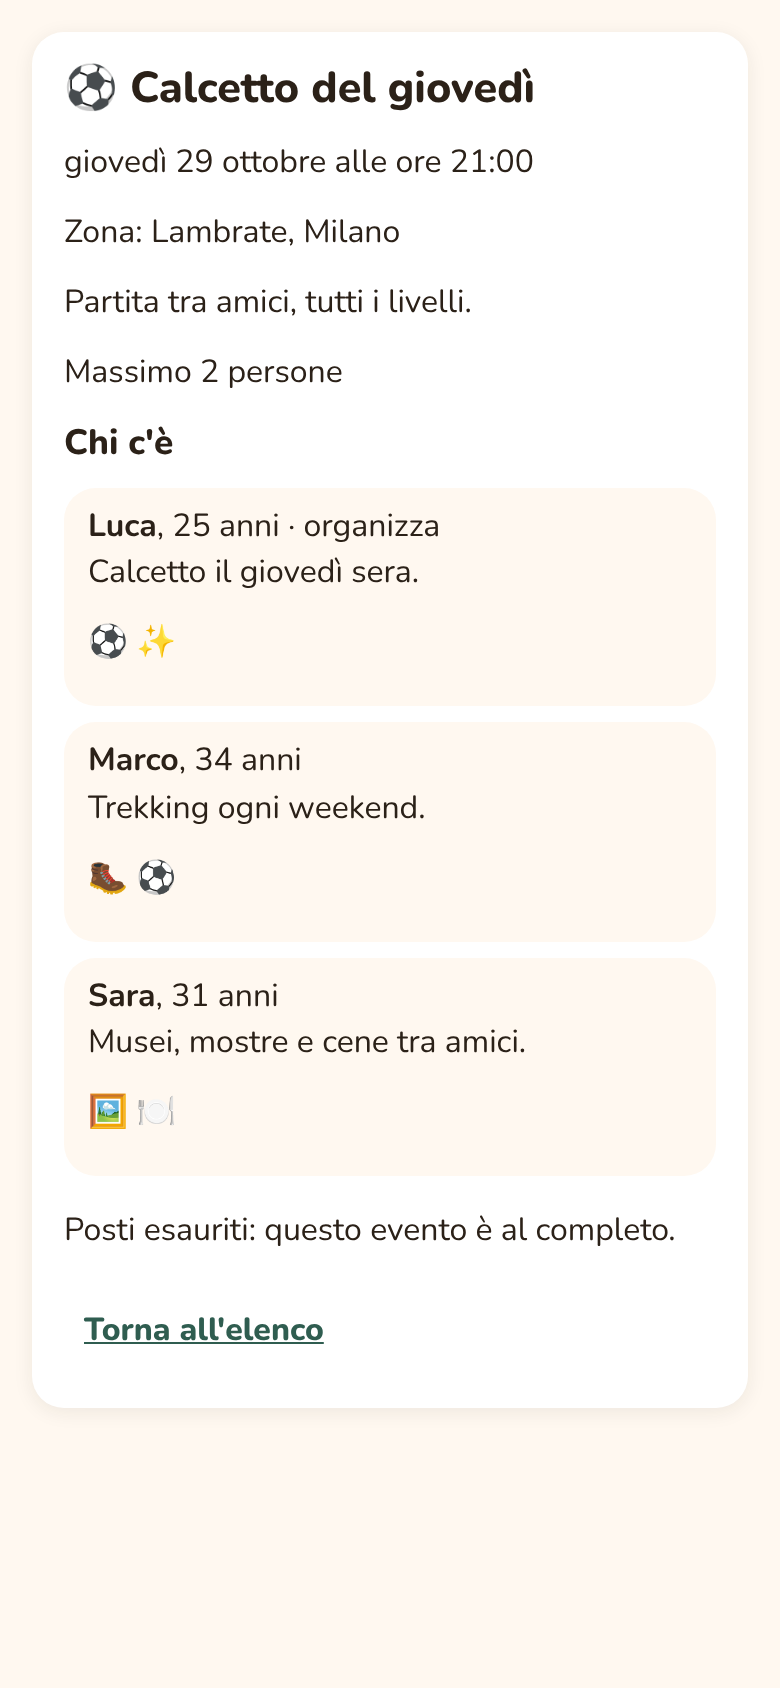
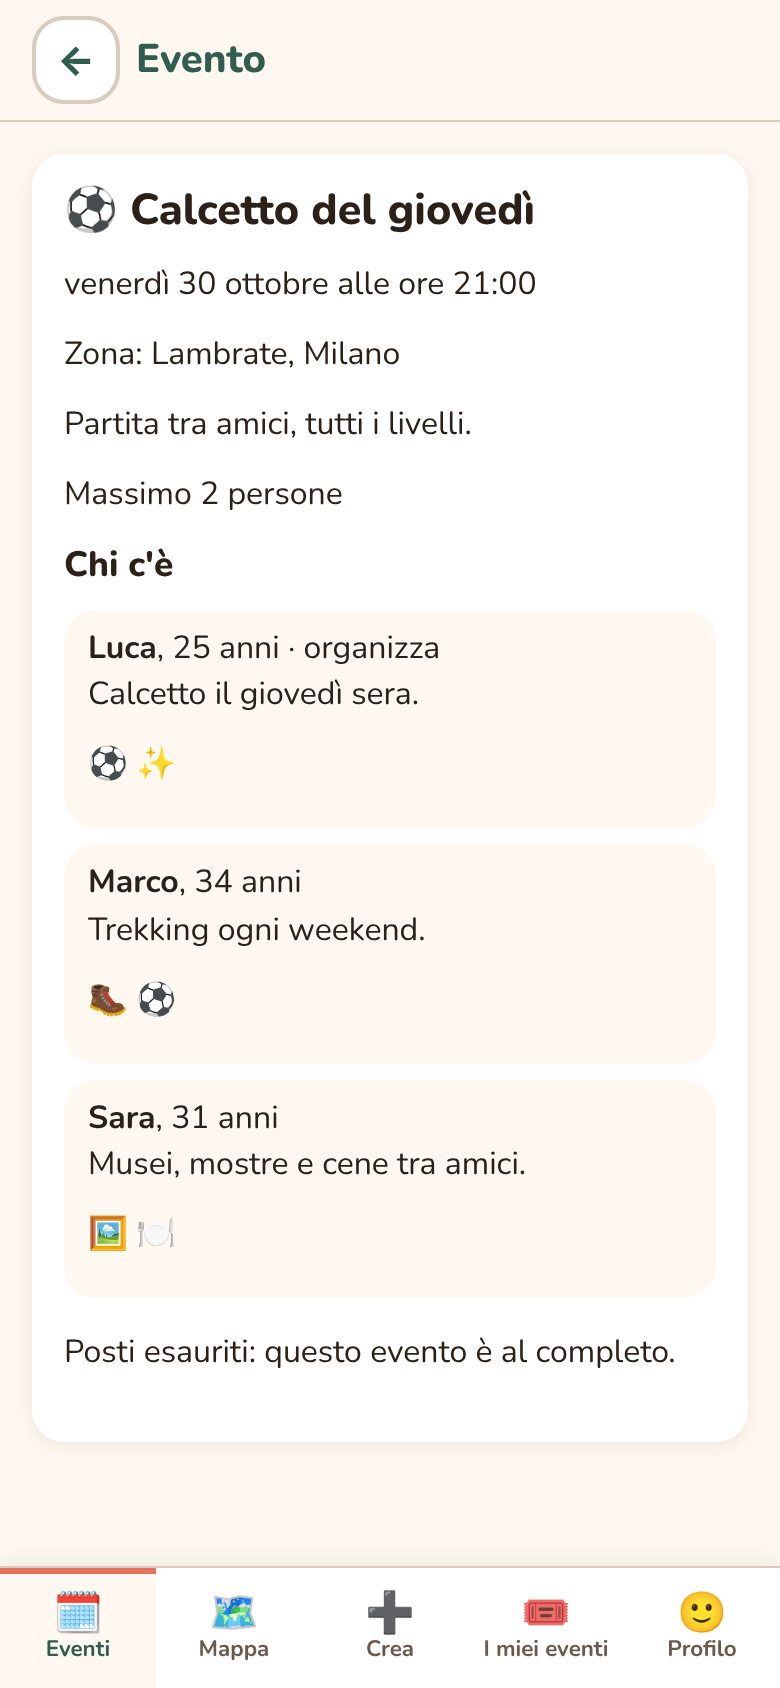
Task 22: navigazione a schede con intestazione e barra in basso
Claude-Session: https://claude.ai/code/session_01GAuTjTUMprXCjsRRC2g3Aa

diff --git a/src/screens/ProfileGate.tsx b/src/screens/ProfileGate.tsx
@@ -1,57 +1,14 @@
-import { useState } from 'react'
 import { useServices } from '../app/ServicesContext'
+import { AppShell } from '../nav/AppShell'
 import { useProfile } from '../profile/useProfile'
-import { DebugScreen } from './DebugScreen'
-import { CreateEventScreen } from './CreateEventScreen'
-import { EventDetailScreen } from './EventDetailScreen'
-import { EventListScreen } from './EventListScreen'
-import { HomeScreen } from './HomeScreen'
-import { MapScreen } from './MapScreen'
-import { MyEventsScreen } from './MyEventsScreen'
 import { ProfileScreen } from './ProfileScreen'
 
-// Chi è collegato ma non ha ancora il profilo deve prima completarlo.
+// Chi è collegato ma non ha ancora il profilo deve prima completarlo; poi entra nell'app a schede.
 export function ProfileGate({ uid }: { uid: string }) {
   const { users } = useServices()
   const { loading, profile, setProfile } = useProfile(users, uid)
-  const [editing, setEditing] = useState(false)
-  const [creating, setCreating] = useState(false)
-  const [browsing, setBrowsing] = useState(false)
-  const [mapping, setMapping] = useState(false)
-  const [mine, setMine] = useState(false)
-  const [debug, setDebug] = useState(false)
-  const [openId, setOpenId] = useState<string | null>(null)
 
   if (loading) return <p className="card loading">Caricamento…</p>
-  if (!profile || editing) {
-    return (
-      <ProfileScreen
-        uid={uid}
-        current={profile}
-        onSaved={(saved) => {
-          setProfile(saved)
-          setEditing(false)
-        }}
-      />
-    )
-  }
-  if (debug) return <DebugScreen onBack={() => setDebug(false)} />
-  if (creating) {
-    return <CreateEventScreen uid={uid} onDone={() => setCreating(false)} onCancel={() => setCreating(false)} />
-  }
-  if ((browsing || mapping || mine) && openId) return <EventDetailScreen eventId={openId} onBack={() => setOpenId(null)} />
-  if (mine) return <MyEventsScreen uid={uid} onOpen={setOpenId} onBack={() => setMine(false)} />
-  if (mapping) return <MapScreen onOpen={setOpenId} onBack={() => setMapping(false)} />
-  if (browsing) return <EventListScreen onOpen={setOpenId} onBack={() => setBrowsing(false)} />
-  return (
-    <HomeScreen
-      profile={profile}
-      onEdit={() => setEditing(true)}
-      onCreateEvent={() => setCreating(true)}
-      onBrowse={() => setBrowsing(true)}
-      onMap={() => setMapping(true)}
-      onMine={() => setMine(true)}
-      onDebug={() => setDebug(true)}
-    />
-  )
+  if (!profile) return <ProfileScreen uid={uid} current={null} onSaved={setProfile} />
+  return <AppShell uid={uid} profile={profile} onProfileSaved={setProfile} />
 }

diff --git a/scripts/shots/steps.ts b/scripts/shots/steps.ts
@@ -16,21 +16,21 @@ async function fromHome(page: Page, ...clicks: (string | RegExp)[]) {
 }
 
 export const STEPS: Step[] = [
-  { name: '01-home', go: (p) => fromHome(p) },
-  { name: '02-eventi', go: (p) => fromHome(p, 'Eventi') },
-  { name: '03-dettaglio-libero', go: (p) => fromHome(p, 'Eventi', /Aperitivo sul Naviglio/) },
-  { name: '04-dettaglio-approvazione', go: (p) => fromHome(p, 'Eventi', /pasta fatta/) },
-  { name: '05-dettaglio-pieno', go: (p) => fromHome(p, 'Eventi', /Calcetto/) },
+  { name: '02-eventi', go: (p) => fromHome(p) },
+  { name: '03-dettaglio-libero', go: (p) => fromHome(p, /Aperitivo sul Naviglio/) },
+  { name: '04-dettaglio-approvazione', go: (p) => fromHome(p, /pasta fatta/) },
+  { name: '05-dettaglio-pieno', go: (p) => fromHome(p, /Calcetto/) },
   { name: '06-dettaglio-annullato', go: (p) => fromHome(p, 'I miei eventi', /annullata/) },
   { name: '07-dettaglio-organizzatore', go: (p) => fromHome(p, 'I miei eventi', /Passeggiata/) },
-  { name: '15-dopo-partecipa', go: async (p) => { await fromHome(p, 'Eventi', /Aperitivo sul Naviglio/, 'Partecipa'); await p.getByText(/confermata/).waitFor() } },
-  { name: '16-richiesta-inviata', go: async (p) => { await fromHome(p, 'Eventi', /pasta fatta/, 'Chiedi di partecipare'); await p.getByText(/Richiesta inviata/).waitFor() } },
+  { name: '15-dopo-partecipa', go: async (p) => { await fromHome(p, /Aperitivo sul Naviglio/, 'Partecipa'); await p.getByText(/confermata/).waitFor() } },
+  { name: '16-richiesta-inviata', go: async (p) => { await fromHome(p, /pasta fatta/, 'Chiedi di partecipare'); await p.getByText(/Richiesta inviata/).waitFor() } },
   { name: '17-organizzatore-richieste', go: (p) => fromHome(p, 'I miei eventi', /Brunch/) },
   { name: '08-miei-eventi', go: (p) => fromHome(p, 'I miei eventi') },
   { name: '09-mappa', go: (p) => fromHome(p, 'Mappa') },
-  { name: '10-crea-evento', go: (p) => fromHome(p, 'Crea evento') },
-  { name: '11-profilo', go: (p) => fromHome(p, 'Modifica profilo') },
-  { name: '12-debug', go: (p) => fromHome(p, 'Debug') },
-  { name: '13-accesso', go: (p) => fromHome(p, 'Esci') },
-  { name: '14-registrazione', go: (p) => fromHome(p, 'Esci', 'Registrati') },
+  { name: '10-crea-evento', go: (p) => fromHome(p, 'Crea') },
+  { name: '18-profilo-scheda', go: (p) => fromHome(p, 'Profilo') },
+  { name: '11-profilo', go: (p) => fromHome(p, 'Profilo', 'Modifica profilo') },
+  { name: '12-debug', go: (p) => fromHome(p, 'Profilo', 'Debug') },
+  { name: '13-accesso', go: (p) => fromHome(p, 'Profilo', 'Esci') },
+  { name: '14-registrazione', go: (p) => fromHome(p, 'Profilo', 'Esci', 'Registrati') },
 ]

diff --git a/src/nav/AppShell.tsx b/src/nav/AppShell.tsx
@@ -1,0 +1,48 @@
+import { useState, type ReactNode } from 'react'
+import type { UserProfile } from '../domain/user'
+import { CreateEventScreen } from '../screens/CreateEventScreen'
+import { DebugScreen } from '../screens/DebugScreen'
+import { EventDetailScreen } from '../screens/EventDetailScreen'
+import { EventListScreen } from '../screens/EventListScreen'
+import { MapScreen } from '../screens/MapScreen'
+import { MyEventsScreen } from '../screens/MyEventsScreen'
+import { ProfileScreen } from '../screens/ProfileScreen'
+import { ProfileView } from '../screens/ProfileView'
+import { AppHeader } from './AppHeader'
+import { canGoBack, goBack, openDebug, openEdit, openEvent, selectTab, START, titleOf, type Nav } from './navState'
+import { TabBar } from './TabBar'
+
+interface Props {
+  uid: string
+  profile: UserProfile
+  onProfileSaved: (profile: UserProfile) => void
+}
+
+// Guscio dell'app per chi è collegato: intestazione, contenuto della scheda attiva e barra in basso.
+export function AppShell({ uid, profile, onProfileSaved }: Props) {
+  const [nav, setNav] = useState<Nav>(START)
+  const open = (id: string) => setNav((n) => openEvent(n, id))
+
+  function content(): ReactNode {
+    switch (nav.overlay.kind) {
+      case 'event': return <EventDetailScreen eventId={nav.overlay.id} />
+      case 'debug': return <DebugScreen />
+      case 'edit': return <ProfileScreen uid={uid} current={profile} onSaved={(saved) => { onProfileSaved(saved); setNav((n) => goBack(n)) }} />
+    }
+    switch (nav.tab) {
+      case 'eventi': return <EventListScreen onOpen={open} />
+      case 'mappa': return <MapScreen onOpen={open} />
+      case 'crea': return <CreateEventScreen uid={uid} onDone={() => setNav(selectTab('miei'))} />
+      case 'miei': return <MyEventsScreen uid={uid} onOpen={open} />
+      case 'profilo': return <ProfileView profile={profile} onEdit={() => setNav((n) => openEdit(n))} onDebug={() => setNav((n) => openDebug(n))} />
+    }
+  }
+
+  return (
+    <div className="shell">
+      <AppHeader title={titleOf(nav)} onBack={canGoBack(nav) ? () => setNav((n) => goBack(n)) : null} />
+      <main className="shell-content">{content()}</main>
+      <TabBar active={nav.tab} onSelect={(tab) => setNav(selectTab(tab))} />
+    </div>
+  )
+}

diff --git a/src/styles/nav.css b/src/styles/nav.css
@@ -1,0 +1,25 @@
+/* Guscio dell'app: intestazione in alto, contenuto che scorre, barra a schede in basso. */
+.shell { display: flex; flex-direction: column; min-height: 100dvh; }
+.shell-content { flex: 1; padding-bottom: calc(72px + env(safe-area-inset-bottom)); }
+.appbar {
+  position: sticky; top: 0; z-index: 10; display: flex; align-items: center; gap: var(--space-2);
+  padding: var(--space-2) var(--space-4); background: var(--color-background);
+  border-bottom: 1px solid var(--color-border);
+}
+.appbar-title { margin: 0; font-size: 1.25rem; }
+.appbar .back, .back-space { width: var(--tap); min-width: var(--tap); height: var(--tap); }
+.appbar .back { padding: 0; background: var(--color-surface); color: var(--color-secondary); border-color: var(--color-border); font-size: 1.25rem; }
+.tabbar {
+  position: fixed; left: 0; right: 0; bottom: 0; z-index: 10; display: grid; grid-template-columns: repeat(5, 1fr);
+  background: var(--color-surface); border-top: 1px solid var(--color-border); box-shadow: 0 -2px 10px rgba(43, 33, 24, 0.08);
+  padding-bottom: env(safe-area-inset-bottom);
+}
+.tab {
+  display: flex; flex-direction: column; align-items: center; justify-content: center; gap: 2px;
+  min-height: 60px; padding: var(--space-1); border: 0; border-radius: 0; background: none; color: var(--color-muted);
+  font-weight: 700;
+}
+.tab-icon { font-size: 1.25rem; line-height: 1; }
+.tab-label { font-size: 0.7rem; line-height: 1.1; text-align: center; }
+.tab[aria-current='page'] { color: var(--color-secondary); background: var(--color-background); box-shadow: inset 0 3px 0 var(--color-primary); }
+.stack-actions { display: flex; gap: var(--space-4); margin-top: var(--space-3); }

diff --git a/src/nav/navState.ts b/src/nav/navState.ts
@@ -1,0 +1,45 @@
+// Stato della navigazione: una scheda attiva e, sopra, al massimo una schermata aperta (dettaglio, debug, modifica profilo).
+// Sono funzioni pure: non toccano React, quindi si provano con test semplici.
+
+export type Tab = 'eventi' | 'mappa' | 'crea' | 'miei' | 'profilo'
+
+export type Overlay =
+  | { kind: 'none' }
+  | { kind: 'event'; id: string }
+  | { kind: 'debug' }
+  | { kind: 'edit' }
+
+export interface Nav {
+  tab: Tab
+  overlay: Overlay
+}
+
+export const START: Nav = { tab: 'eventi', overlay: { kind: 'none' } }
+
+export const TAB_LABEL: Record<Tab, string> = {
+  eventi: 'Eventi',
+  mappa: 'Mappa',
+  crea: 'Crea',
+  miei: 'I miei eventi',
+  profilo: 'Profilo',
+}
+
+// Toccare una scheda chiude sempre la schermata aperta sopra.
+export const selectTab = (tab: Tab): Nav => ({ tab, overlay: { kind: 'none' } })
+
+export const openEvent = (nav: Nav, id: string): Nav => ({ ...nav, overlay: { kind: 'event', id } })
+export const openDebug = (nav: Nav): Nav => ({ ...nav, overlay: { kind: 'debug' } })
+export const openEdit = (nav: Nav): Nav => ({ ...nav, overlay: { kind: 'edit' } })
+export const goBack = (nav: Nav): Nav => ({ ...nav, overlay: { kind: 'none' } })
+
+export const canGoBack = (nav: Nav): boolean => nav.overlay.kind !== 'none'
+
+// Titolo mostrato nell'intestazione.
+export function titleOf(nav: Nav): string {
+  switch (nav.overlay.kind) {
+    case 'event': return 'Evento'
+    case 'debug': return 'Debug'
+    case 'edit': return 'Modifica profilo'
+    default: return nav.tab === 'eventi' ? 'Eventi in programma' : nav.tab === 'crea' ? 'Crea un evento' : TAB_LABEL[nav.tab]
+  }
+}

diff --git a/src/screens/MyEventsScreen.tsx b/src/screens/MyEventsScreen.tsx
@@ -9,7 +9,7 @@ import { withdrawFromEvent } from '../participation/withdrawFromEvent'
 const STATO_LABEL = { richiesta: 'In attesa di risposta', confermato: 'Confermato', rifiutato: 'Rifiutato' } as const
 
 // "I miei eventi" (che organizzo) e "Le mie iscrizioni", con annullamento e ritiro.
-export function MyEventsScreen({ uid, onOpen, onBack }: { uid: string; onOpen: (eventId: string) => void; onBack: () => void }) {
+export function MyEventsScreen({ uid, onOpen }: { uid: string; onOpen: (eventId: string) => void }) {
   const services = useServices()
   const { loading, failed, mine, reload } = useMine(services, uid)
   const [error, setError] = useState('')
@@ -27,7 +27,7 @@ export function MyEventsScreen({ uid, onOpen, onBack }: { uid: string; onOpen: (
 
   return (
     <section className="card">
-      <h2>I miei eventi</h2>
+      <h2>Che organizzo</h2>
       {loading && <p className="loading">Caricamento…</p>}
       {failed && <p role="alert" className="error">Non riesco a caricare i tuoi eventi.</p>}
       {error && <p role="alert" className="error">{error}</p>}
@@ -64,7 +64,6 @@ export function MyEventsScreen({ uid, onOpen, onBack }: { uid: string; onOpen: (
           </li>
         ))}
       </ul>
-      <button type="button" className="link" onClick={onBack}>Indietro</button>
     </section>
   )
 }

diff --git a/src/screens/CreateEventScreen.tsx b/src/screens/CreateEventScreen.tsx
@@ -20,11 +20,10 @@ const EMPTY: EventInput = {
 interface Props {
   uid: string
   onDone: () => void
-  onCancel: () => void
 }
 
 // Form per creare un evento. La mappa per scegliere il punto arriverà col task 9: per ora le coordinate si scrivono.
-export function CreateEventScreen({ uid, onDone, onCancel }: Props) {
+export function CreateEventScreen({ uid, onDone }: Props) {
   const { events } = useServices()
   const [input, setInput] = useState<EventInput>(EMPTY)
   const [error, setError] = useState<string | null>(null)
@@ -47,7 +46,6 @@ export function CreateEventScreen({ uid, onDone, onCancel }: Props) {
 
   return (
     <form className="card" onSubmit={handleSubmit} noValidate>
-      <h2>Crea un evento</h2>
       <label>
         Tipo
         <select value={input.tipo} onChange={(e) => set({ tipo: e.target.value })}>
@@ -97,8 +95,7 @@ export function CreateEventScreen({ uid, onDone, onCancel }: Props) {
         Le richieste vanno approvate da me
       </label>
       {error && <p role="alert" className="error">{error}</p>}
-      <button type="submit" disabled={busy}>Crea evento</button>{' '}
-      <button type="button" className="link" onClick={onCancel}>Annulla</button>
+      <button type="submit" disabled={busy}>Crea evento</button>
     </form>
   )
 }

diff --git a/src/nav/navState.test.ts b/src/nav/navState.test.ts
@@ -1,0 +1,27 @@
+import { canGoBack, goBack, openDebug, openEdit, openEvent, selectTab, START, titleOf } from './navState'
+
+describe('navState', () => {
+  it('parte dalla scheda Eventi, senza schermate aperte', () => {
+    expect(START.tab).toBe('eventi')
+    expect(canGoBack(START)).toBe(false)
+  })
+  it('aprire un evento permette di tornare indietro alla stessa scheda', () => {
+    const nav = openEvent(selectTab('mappa'), 'e1')
+    expect(canGoBack(nav)).toBe(true)
+    expect(nav.overlay).toEqual({ kind: 'event', id: 'e1' })
+    expect(goBack(nav)).toEqual(selectTab('mappa'))
+  })
+  it('cambiare scheda chiude la schermata aperta', () => {
+    expect(selectTab('profilo').overlay.kind).toBe('none')
+  })
+  it('debug e modifica profilo sono schermate sopra il profilo', () => {
+    const base = selectTab('profilo')
+    expect(titleOf(openDebug(base))).toBe('Debug')
+    expect(titleOf(openEdit(base))).toBe('Modifica profilo')
+  })
+  it('il titolo segue la scheda o la schermata aperta', () => {
+    expect(titleOf(START)).toBe('Eventi in programma')
+    expect(titleOf(selectTab('miei'))).toBe('I miei eventi')
+    expect(titleOf(openEvent(START, 'x'))).toBe('Evento')
+  })
+})

diff --git a/src/screens/EventListScreen.tsx b/src/screens/EventListScreen.tsx
@@ -9,11 +9,10 @@ import { FiltersBar } from './FiltersBar'
 
 interface Props {
   onOpen: (eventId: string) => void
-  onBack: () => void
 }
 
 // Elenco degli eventi futuri, dal più vicino. Toccando una scheda si apre il dettaglio.
-export function EventListScreen({ onOpen, onBack }: Props) {
+export function EventListScreen({ onOpen }: Props) {
   const { events } = useServices()
   const { loading, list, failed } = useUpcomingEvents(events)
   const [filters, setFilters] = useState<EventFilters>(NO_FILTERS)
@@ -22,7 +21,6 @@ export function EventListScreen({ onOpen, onBack }: Props) {
 
   return (
     <section className="card">
-      <h2>Eventi in programma</h2>
       <FiltersBar filters={filters} onChange={setFilters} position={position} onAskPosition={ask} />
       {loading && <p className="loading">Caricamento…</p>}
       {failed && <p role="alert" className="error">Non riesco a caricare gli eventi.</p>}
@@ -38,7 +36,6 @@ export function EventListScreen({ onOpen, onBack }: Props) {
           </li>
         ))}
       </ul>
-      <button type="button" className="link" onClick={onBack}>Indietro</button>
     </section>
   )
 }

diff --git a/src/screens/DebugScreen.tsx b/src/screens/DebugScreen.tsx
@@ -11,18 +11,16 @@ const STATUS_LABEL = {
 } as const
 
 // Schermata per sviluppatori: mostra lo stato delle notifiche e il token da copiare in Firebase.
-export function DebugScreen({ onBack }: { onBack: () => void }) {
+export function DebugScreen() {
   const { push } = useServices()
   const { state, enable } = usePush(push)
   return (
     <section className="card">
-      <h2>Debug</h2>
       <p>Notifiche: {STATUS_LABEL[state.status]}</p>
       {state.error && <p role="alert">{state.error}</p>}
       {state.token && <p>Token: <code style={{ wordBreak: 'break-all' }}>{state.token}</code></p>}
       {state.last && <p>Ultima notifica: {state.last.title} – {state.last.body}</p>}
-      <button type="button" onClick={() => void enable()} disabled={state.status === 'unsupported'}>Attiva notifiche</button>{' '}
-      <button type="button" className="link" onClick={onBack}>Indietro</button>
+      <button type="button" onClick={() => void enable()} disabled={state.status === 'unsupported'}>Attiva notifiche</button>
     </section>
   )
 }

diff --git a/src/screens/ProfileView.tsx b/src/screens/ProfileView.tsx
@@ -1,0 +1,26 @@
+import { useServices } from '../app/ServicesContext'
+import type { UserProfile } from '../domain/user'
+import { calculateAge } from '../profile/age'
+
+interface Props {
+  profile: UserProfile
+  onEdit: () => void
+  onDebug: () => void
+}
+
+// Scheda "Profilo": i dati propri (età, mai la data di nascita) con Modifica, Debug ed Esci.
+export function ProfileView({ profile, onEdit, onDebug }: Props) {
+  const { auth } = useServices()
+  return (
+    <section className="card">
+      <h2>{profile.nome}, {calculateAge(profile.dataNascita)} anni</h2>
+      {profile.bio && <p>{profile.bio}</p>}
+      {profile.interessi.length > 0 && <p>Interessi: {profile.interessi.join(', ')}</p>}
+      <button type="button" onClick={onEdit}>Modifica profilo</button>
+      <div className="stack-actions">
+        <button type="button" className="link" onClick={onDebug}>Debug</button>
+        <button type="button" className="link" onClick={() => void auth.logout()}>Esci</button>
+      </div>
+    </section>
+  )
+}

diff --git a/src/screens/ProfileScreen.tsx b/src/screens/ProfileScreen.tsx
@@ -38,7 +38,7 @@ export function ProfileScreen({ uid, current, onSaved }: Props) {
 
   return (
     <form className="card" onSubmit={handleSubmit} noValidate>
-      <h2>{current ? 'Modifica il profilo' : 'Completa il tuo profilo'}</h2>
+      {!current && <h2>Completa il tuo profilo</h2>}
       <PhotoField uid={uid} fotoUrl={input.fotoUrl} onChange={(fotoUrl) => set({ fotoUrl })} />
       <label>
         Nome
@@ -55,7 +55,7 @@ export function ProfileScreen({ uid, current, onSaved }: Props) {
       <InterestPicker selected={input.interessi} onChange={(interessi) => set({ interessi })} />
       {error && <p role="alert" className="error">{error}</p>}
       <button type="submit" disabled={busy}>Salva</button>
-      <button type="button" className="link" onClick={() => void auth.logout()}>Esci</button>
+      {!current && <button type="button" className="link" onClick={() => void auth.logout()}>Esci</button>}
     </form>
   )
 }
